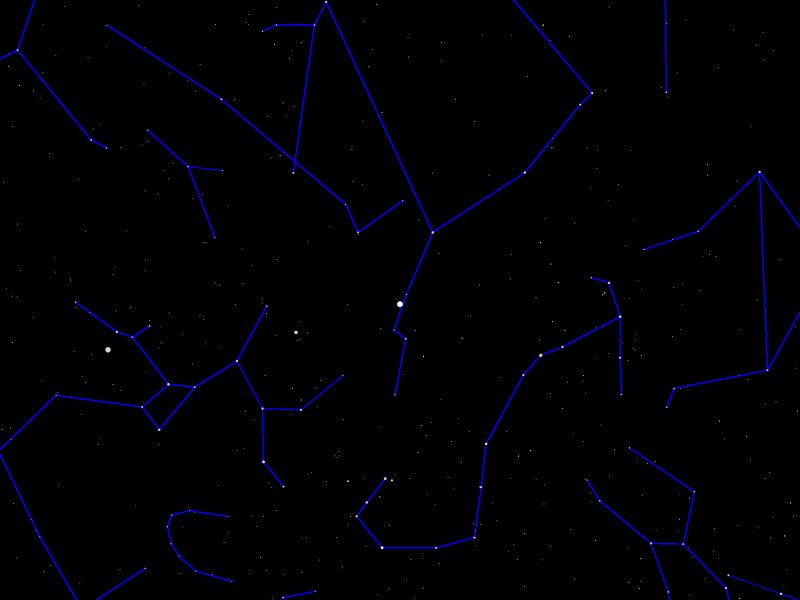
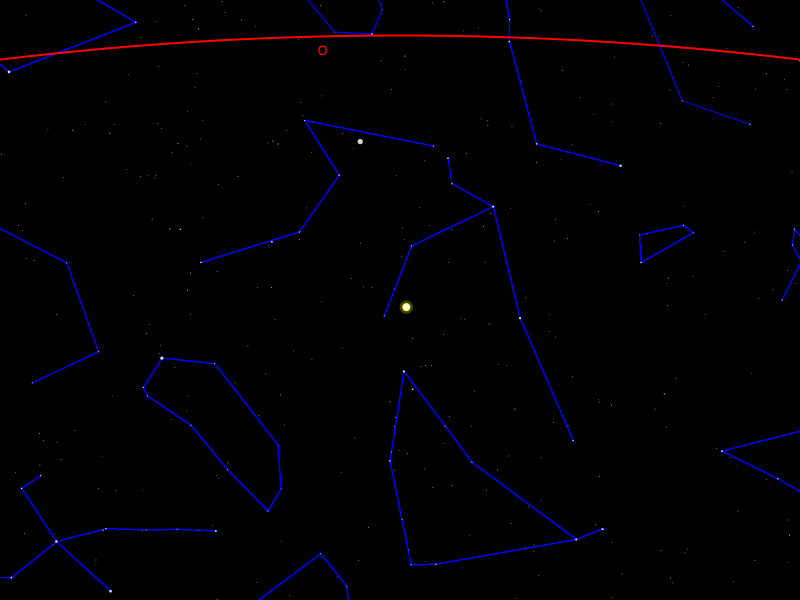
étape 8 cardinaux ok

diff --git a/src/ch/epfl/rigel/gui/SkyCanvasPainter.java b/src/ch/epfl/rigel/gui/SkyCanvasPainter.java
@@ -8,6 +8,7 @@ import ch.epfl.rigel.coordinates.StereographicProjection;
 import ch.epfl.rigel.math.Angle;
 import ch.epfl.rigel.math.ClosedInterval;
 import javafx.geometry.Point2D;
+import javafx.geometry.VPos;
 import javafx.scene.canvas.Canvas;
 import javafx.scene.canvas.GraphicsContext;
 import javafx.scene.paint.Color;
@@ -65,7 +66,7 @@ public final class SkyCanvasPainter {
     public void drawSun(ObservedSky sky, StereographicProjection projection, Transform planeToCanvas){
         double[] transformedCoordinates = {sky.sunPosition().x(), sky.sunPosition().y()};
         planeToCanvas.transform2DPoints(transformedCoordinates, 0, transformedCoordinates, 0, 1);
-        final double radius = projection.applyToAngle(Angle.ofDeg(0.5))/2;
+        final double radius = projection.applyToAngle(sky.sun().angularSize())/2;
         Point2D point = planeToCanvas.deltaTransform(radius, radius);
         double trueRadius = Math.abs(point.getX()) + Math.abs(point.getY());
         ctx.setFill(opaqueYellow);
@@ -79,7 +80,7 @@ public final class SkyCanvasPainter {
     public void drawMoon(ObservedSky sky, StereographicProjection projection, Transform planeToCanvas){
         double[] transformedCoordinates = {sky.moonPosition().x(), sky.moonPosition().y()};
         planeToCanvas.transform2DPoints(transformedCoordinates, 0, transformedCoordinates, 0, 1);
-        final double radius = projection.applyToAngle(Angle.ofDeg(0.5))/2;
+        final double radius = projection.applyToAngle(sky.moon().angularSize())/2;
         Point2D point = planeToCanvas.deltaTransform(radius, radius);
         double trueRadius = Math.abs(point.getX()) + Math.abs(point.getY());
         ctx.setFill(white);
@@ -120,8 +121,21 @@ public final class SkyCanvasPainter {
         Point2D point = planeToCanvas.deltaTransform(radius, radius);
         double trueRadius = Math.abs(point.getX()) + Math.abs(point.getY());
         ctx.strokeOval(transformedCoordinates[0]-trueRadius/2, transformedCoordinates[1]-trueRadius/2, trueRadius, trueRadius);
+        drawCardinalPoints(projection, planeToCanvas);
     }
 
+    private void drawCardinalPoints(StereographicProjection projection, Transform planeToCanvas){
+        ctx.setFill(Color.RED);
+        ctx.setTextBaseline(VPos.TOP);
+        for (int i=0; i<8; ++i){
+            HorizontalCoordinates hor = HorizontalCoordinates.ofDeg(45*i, -0.5);
+            CartesianCoordinates coordinates = projection.apply(hor);
+            double[] transformedCoordinates = {coordinates.x(), coordinates.y()};
+            planeToCanvas.transform2DPoints(transformedCoordinates, 0, transformedCoordinates, 0, 1);
+            System.out.println(transformedCoordinates[0] + " " + transformedCoordinates[1]);
+            ctx.fillText(hor.azOctantName("N", "E", "S", "O"), transformedCoordinates[0], transformedCoordinates[1]);
+        }
+    }
 
     private double size(double magnitude, StereographicProjection projection){
         final double clipedMagnitude = interval.clip(magnitude);

diff --git a/test/ch/epfl/rigel/gui/SkyCanvasPainterTest.java b/test/ch/epfl/rigel/gui/SkyCanvasPainterTest.java
@@ -46,7 +46,7 @@ public final class SkyCanvasPainterTest extends Application {
             GeographicCoordinates where =
                     GeographicCoordinates.ofDeg(6.57, 46.52);
             HorizontalCoordinates projCenter =
-                    HorizontalCoordinates.ofDeg(3.7, -65);
+                    HorizontalCoordinates.ofDeg(277, -23);
             StereographicProjection projection =
                     new StereographicProjection(projCenter);
             ObservedSky sky =
